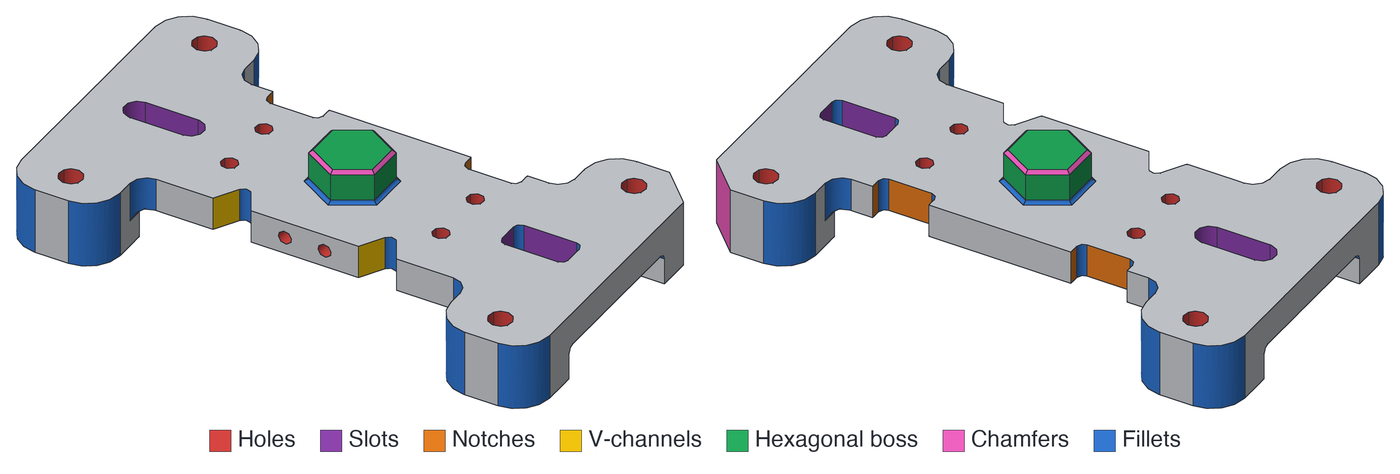
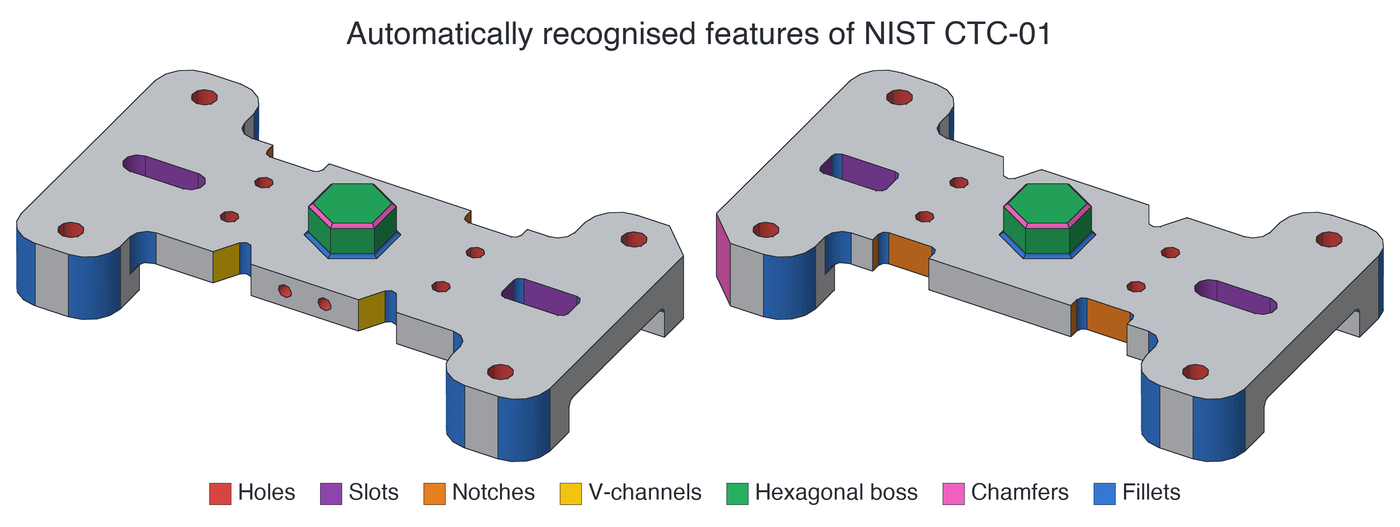
README picture: caption it

diff --git a/README.md b/README.md
@@ -9,10 +9,10 @@ It works from the B-rep geometry alone, with no CAD system, feature tree or Open
 It is pure Rust, and the same input always gives the same output. It is available as a
 command line, a Rust library and a Python package.
 
-![NIST CTC-01 in two views, each face coloured by the feature quiddity recognises it as: holes, slots, notches, V-channels, the hexagonal boss, chamfers and fillets](docs/images/ctc01-features.png)
+![Automatically recognised features of NIST CTC-01: two views, each face coloured by the feature quiddity recognises it as: holes, slots, notches, V-channels, the hexagonal boss, chamfers and fillets](docs/images/ctc01-features.png)
 
-*NIST CTC-01 (AP242), each face coloured by the feature it belongs to. Grey faces belong to
-no feature shown here.*
+*Each face of NIST CTC-01 (AP242) coloured by the feature it belongs to; grey faces belong
+to no feature shown here.*
 
 Status: **0.4.9** (2026-11-07). See [CHANGELOG.md](CHANGELOG.md).
 
